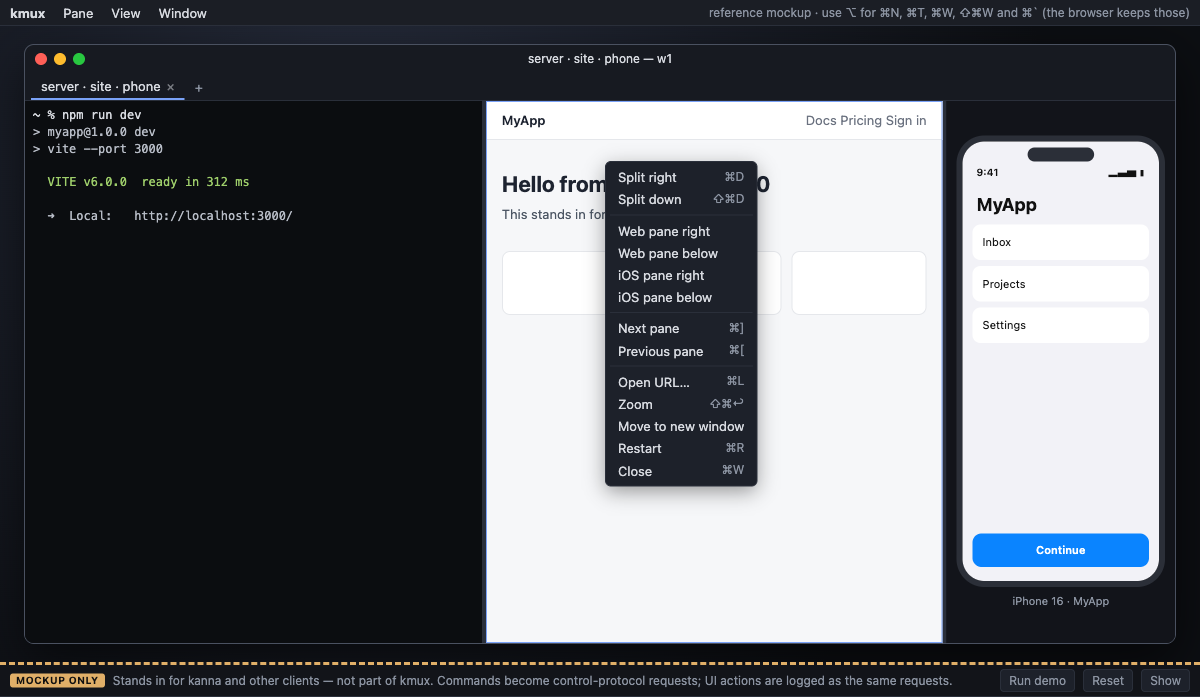
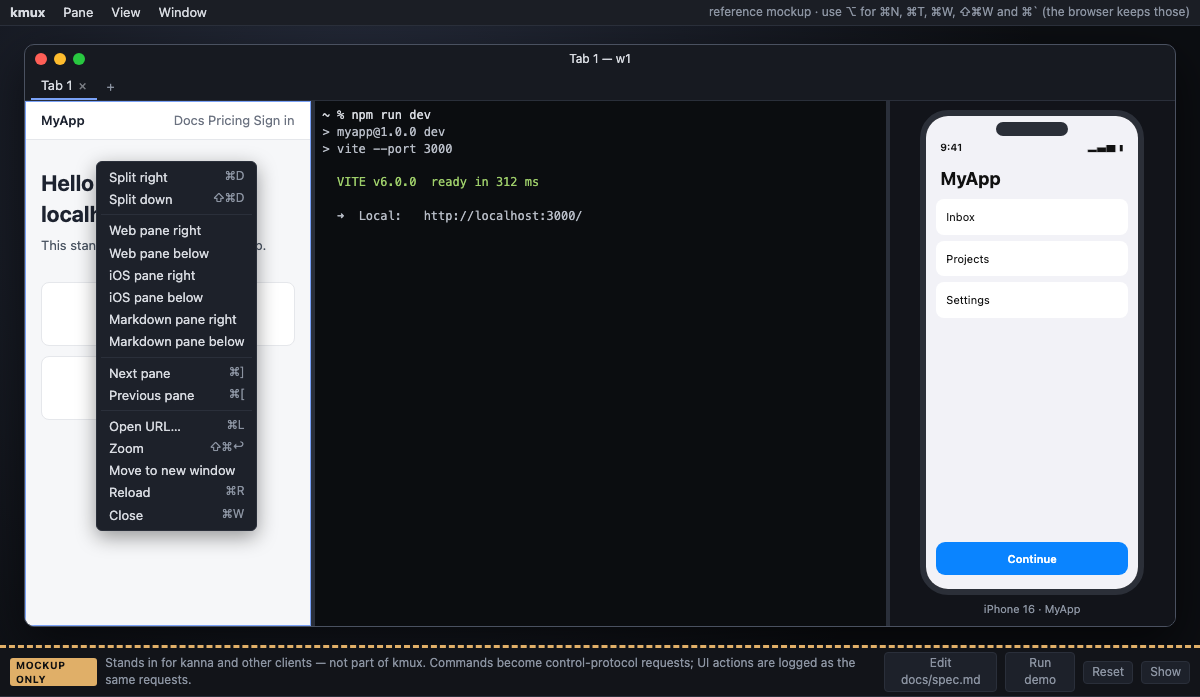
Spec screenshots of the pane menu (Reload) and pane states (kmux restart) re-shot from the model; the model's window side fills a window with no docked pane

diff --git a/reference/kmux/index.html b/reference/kmux/index.html
@@ -64,7 +64,7 @@
   .drop-hint[hidden], .drag-tip[hidden] { display: none; }
 
   .win-body { flex: 1; display: flex; min-height: 0; min-width: 0; }
-  .win-side { display: flex; flex-direction: column; min-width: 0; min-height: 0; }
+  .win-side { flex: 1; display: flex; flex-direction: column; min-width: 0; min-height: 0; }
   .win-body > .pane.docked { flex: none; }
   .dock-divider { flex: 0 0 4px; cursor: col-resize; background: var(--border); touch-action: none; }
   .dock-divider:hover, .dock-divider.dragging { background: var(--accent); }
